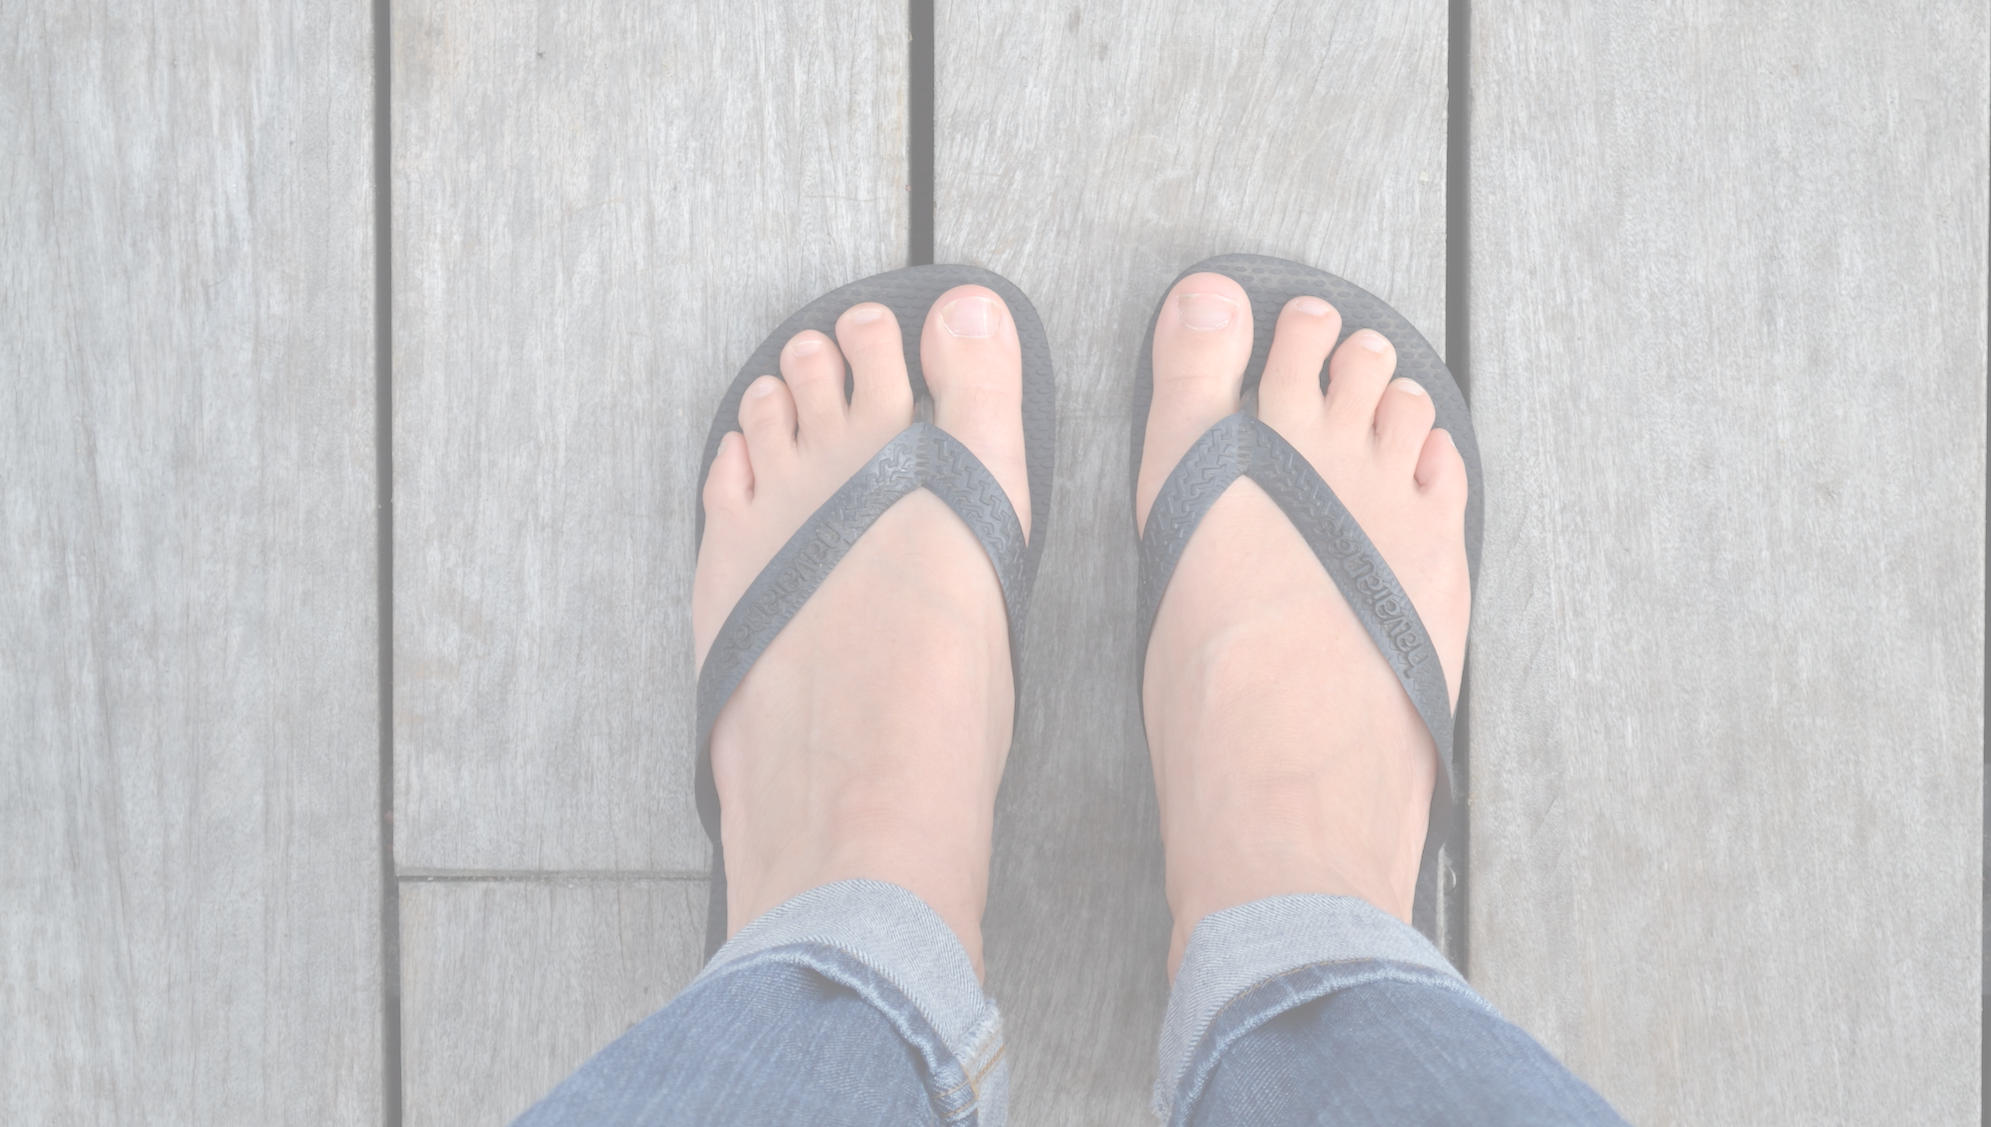
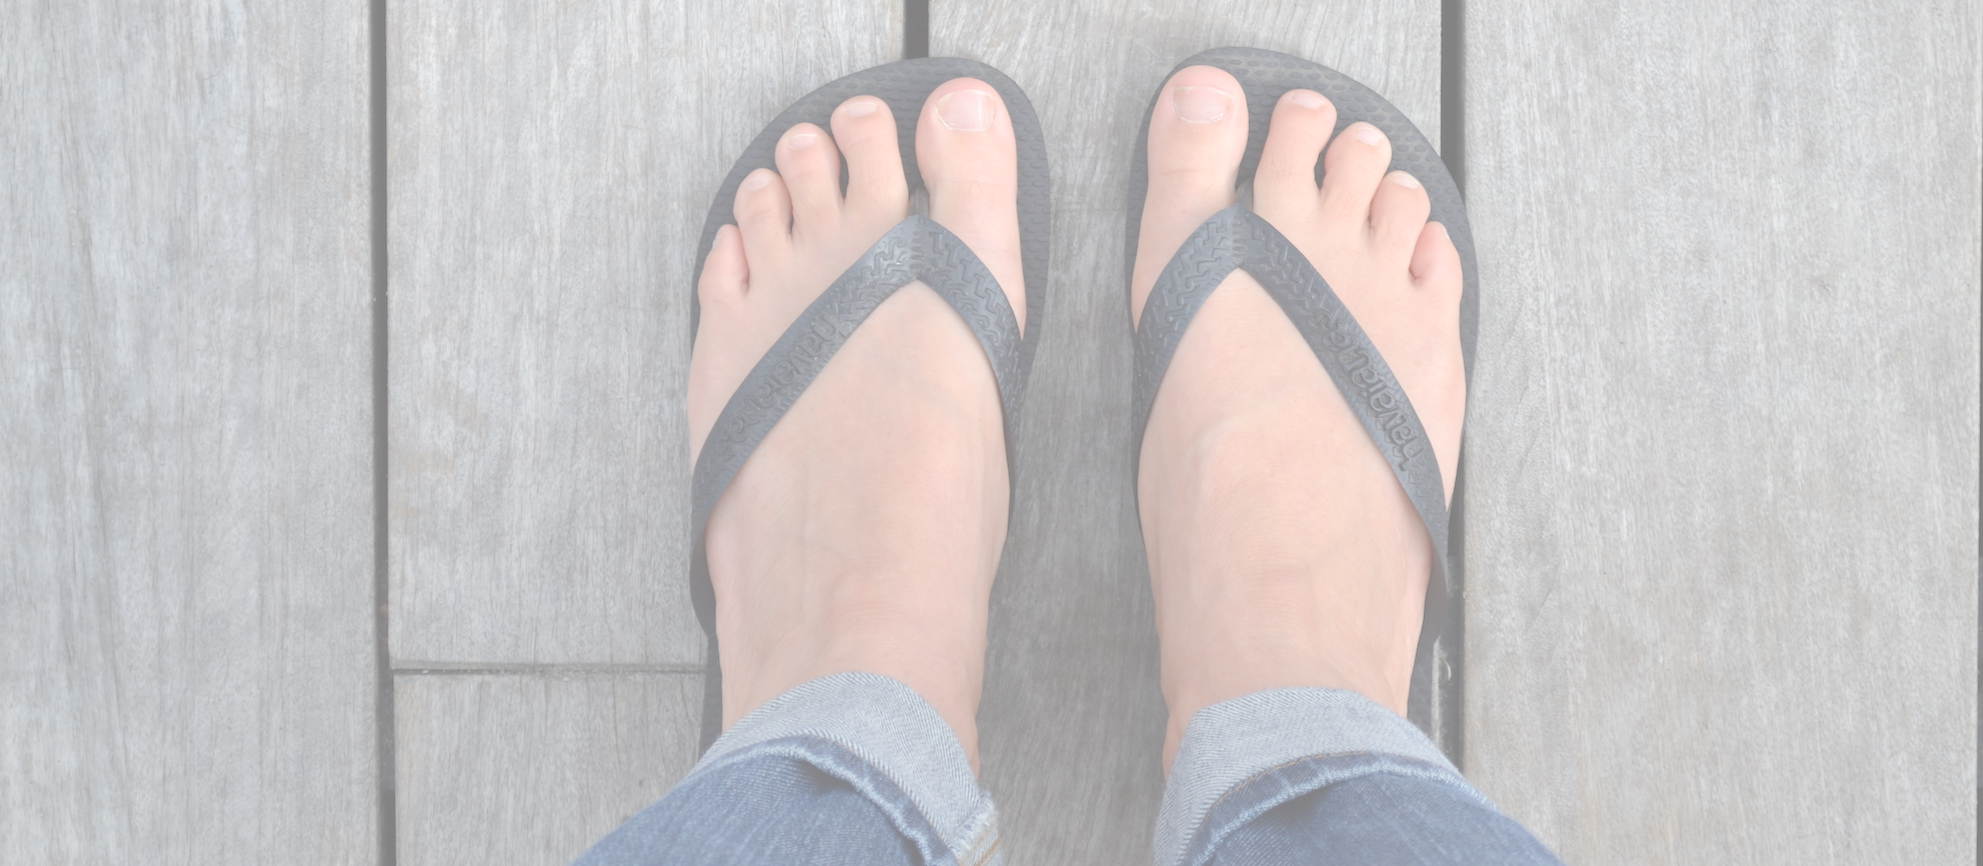
spacers are smaller and images cover size

diff --git a/css/style.css b/css/style.css
@@ -186,18 +186,21 @@ spacers
 #spacer1{
 	background-image: url(../img/spacer/rooftops-sm.jpg);
 	background-repeat: no-repeat;
+  background-size: cover;
 	font-family: 'Architects Daughter', cursive;
 	letter-spacing: 1px;
 }
 #spacer2{
 	background-image: url(../img/spacer/whanau-sm.jpg);
 	background-repeat: no-repeat;
+  background-size: cover;
 	font-family: 'Architects Daughter', cursive;
 	letter-spacing: 1px;
 }
 #spacer3{
 	background-image: url(../img/spacer/jandals-sm.jpg);
 	background-repeat: no-repeat;
+  background-size: cover;
 	font-family: 'Architects Daughter', cursive;
 	letter-spacing: 1px;
 }
@@ -271,10 +274,6 @@ about
 /* ================================
 carousel
 ================================= */
-
-#my-carousel {
-
-}
 
 .carousel h4,.carousel p {
 	text-align: center;
@@ -380,17 +379,14 @@ media queries
 	}
 	#spacer1{
 		background-image: url(../img/spacer/rooftops.png);
-		min-height: 100vh;
 		width: 100%;
 	}
 	#spacer2{
 		background-image: url(../img/spacer/whanau.png);
-		min-height: 100vh;
 		width: 100%;
 	}
 	#spacer3{
 		background-image: url(../img/spacer/jandals.png);
-		min-height: 100vh;
 		width: 100%;
 
 
